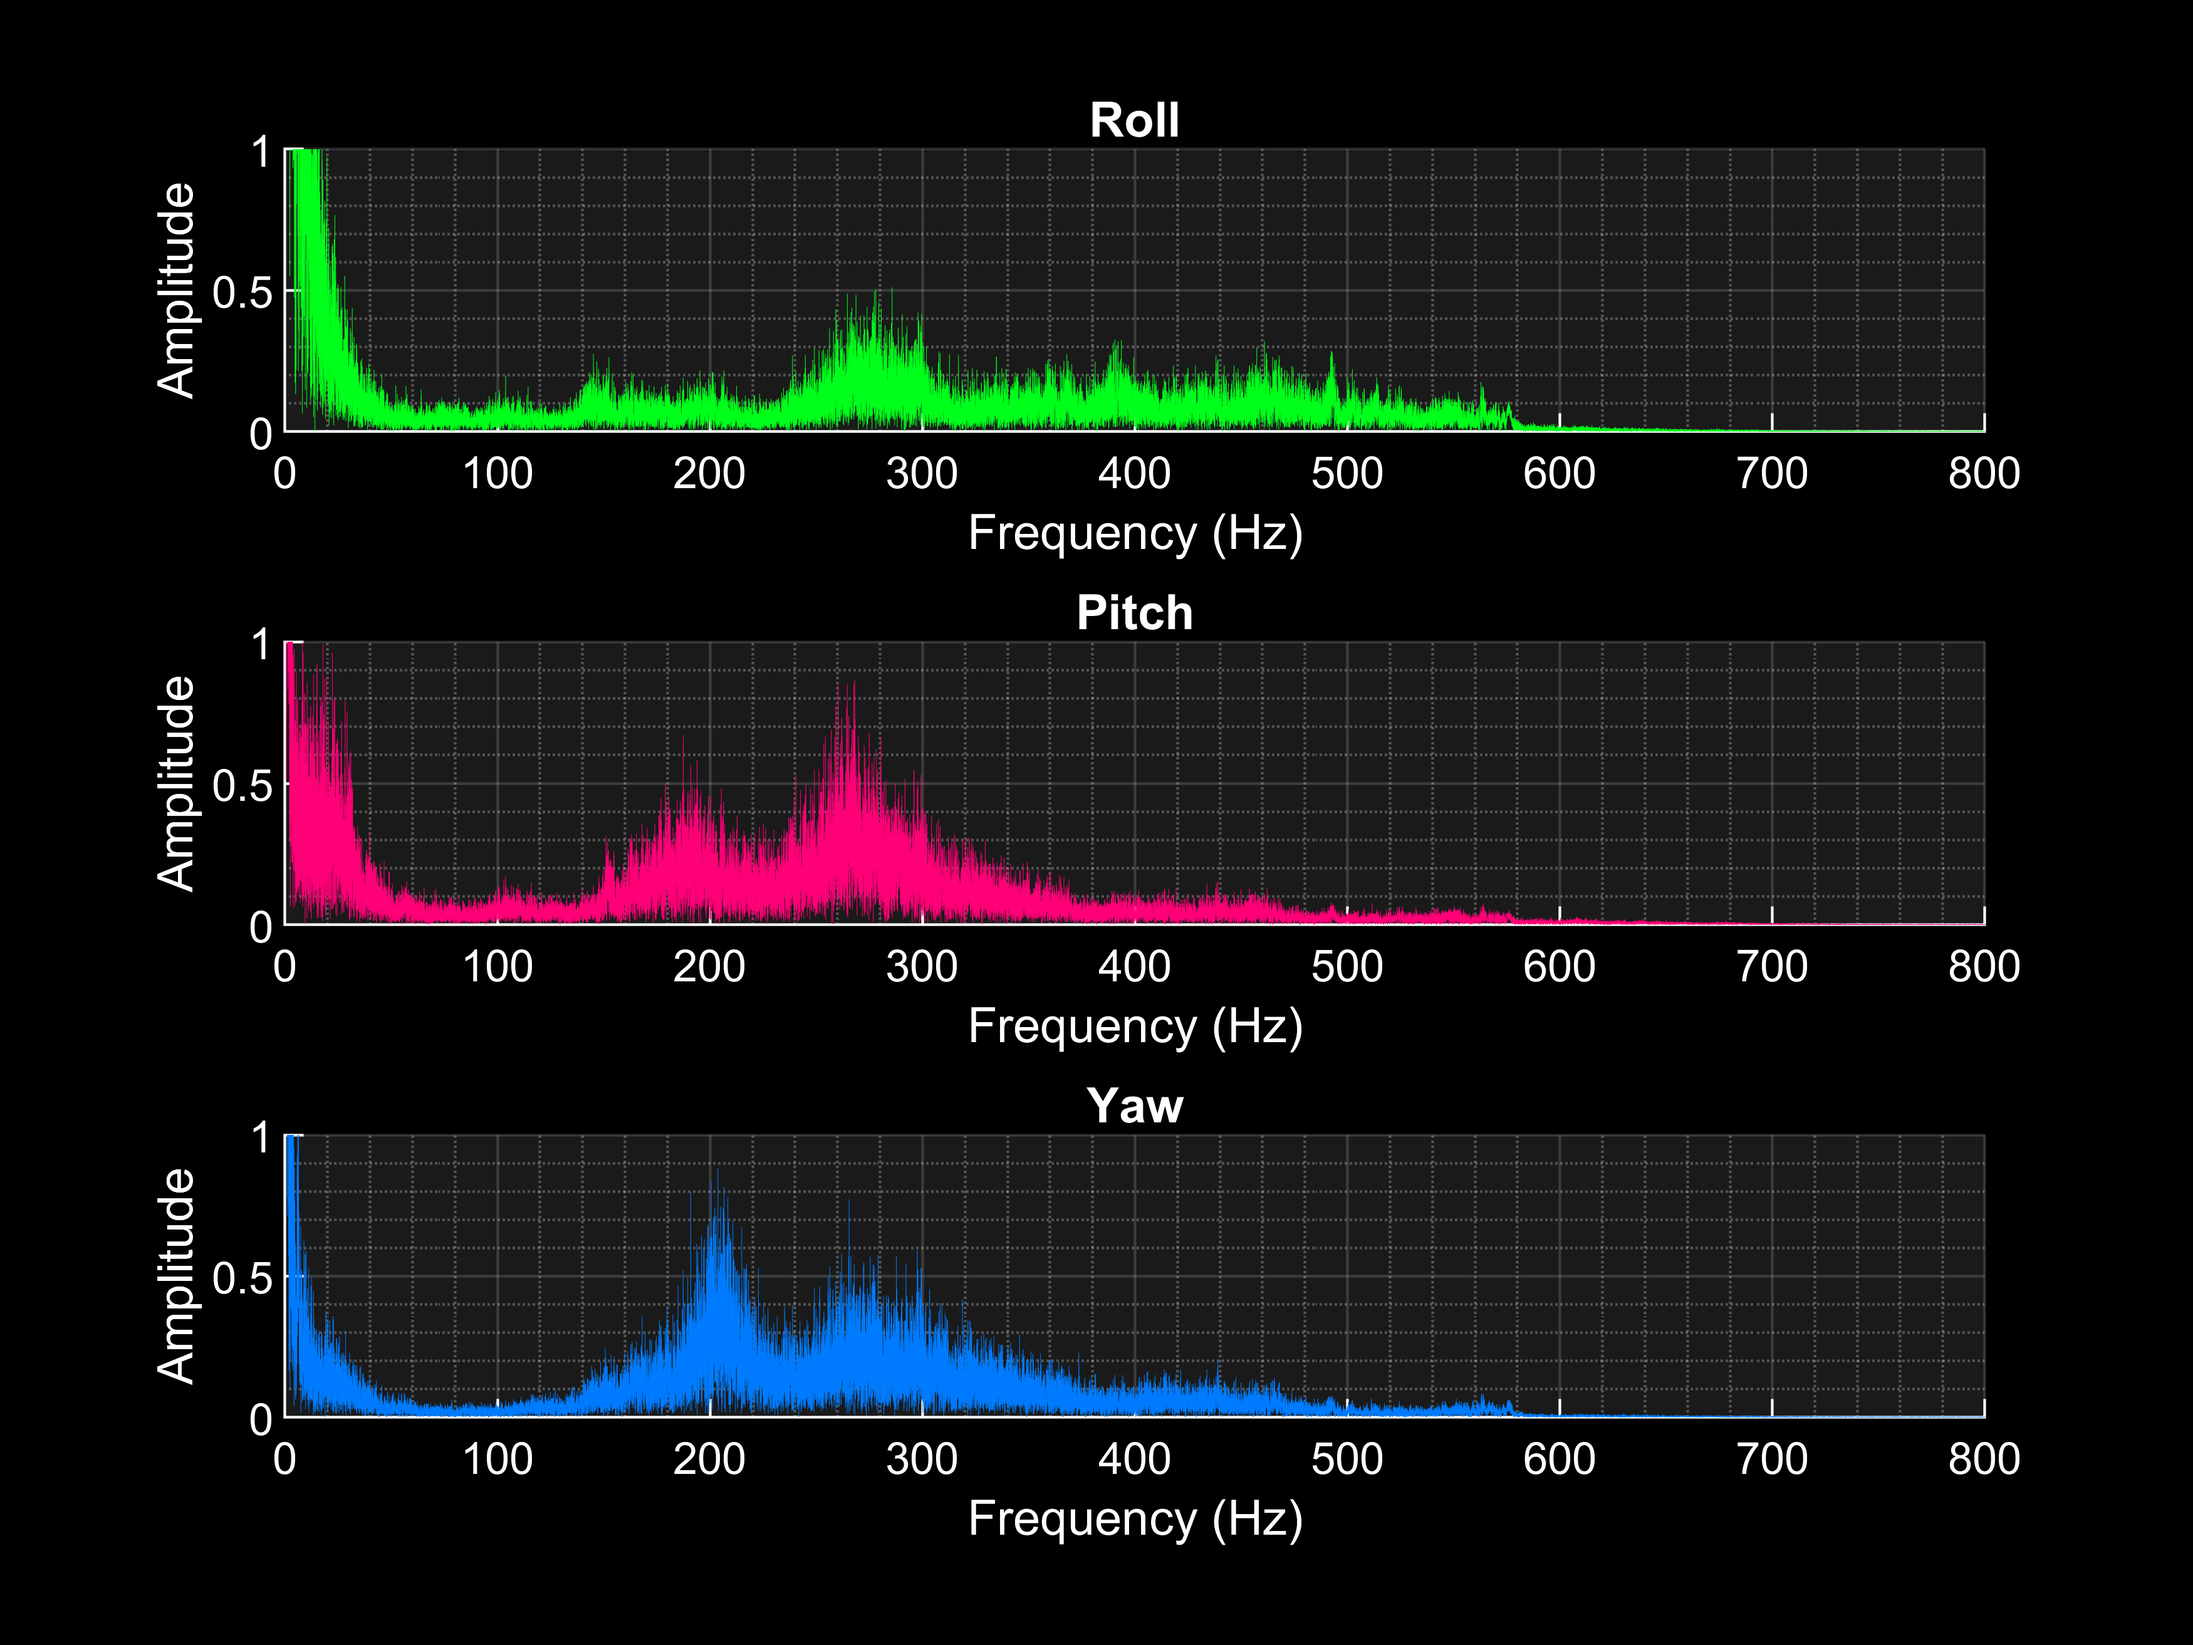
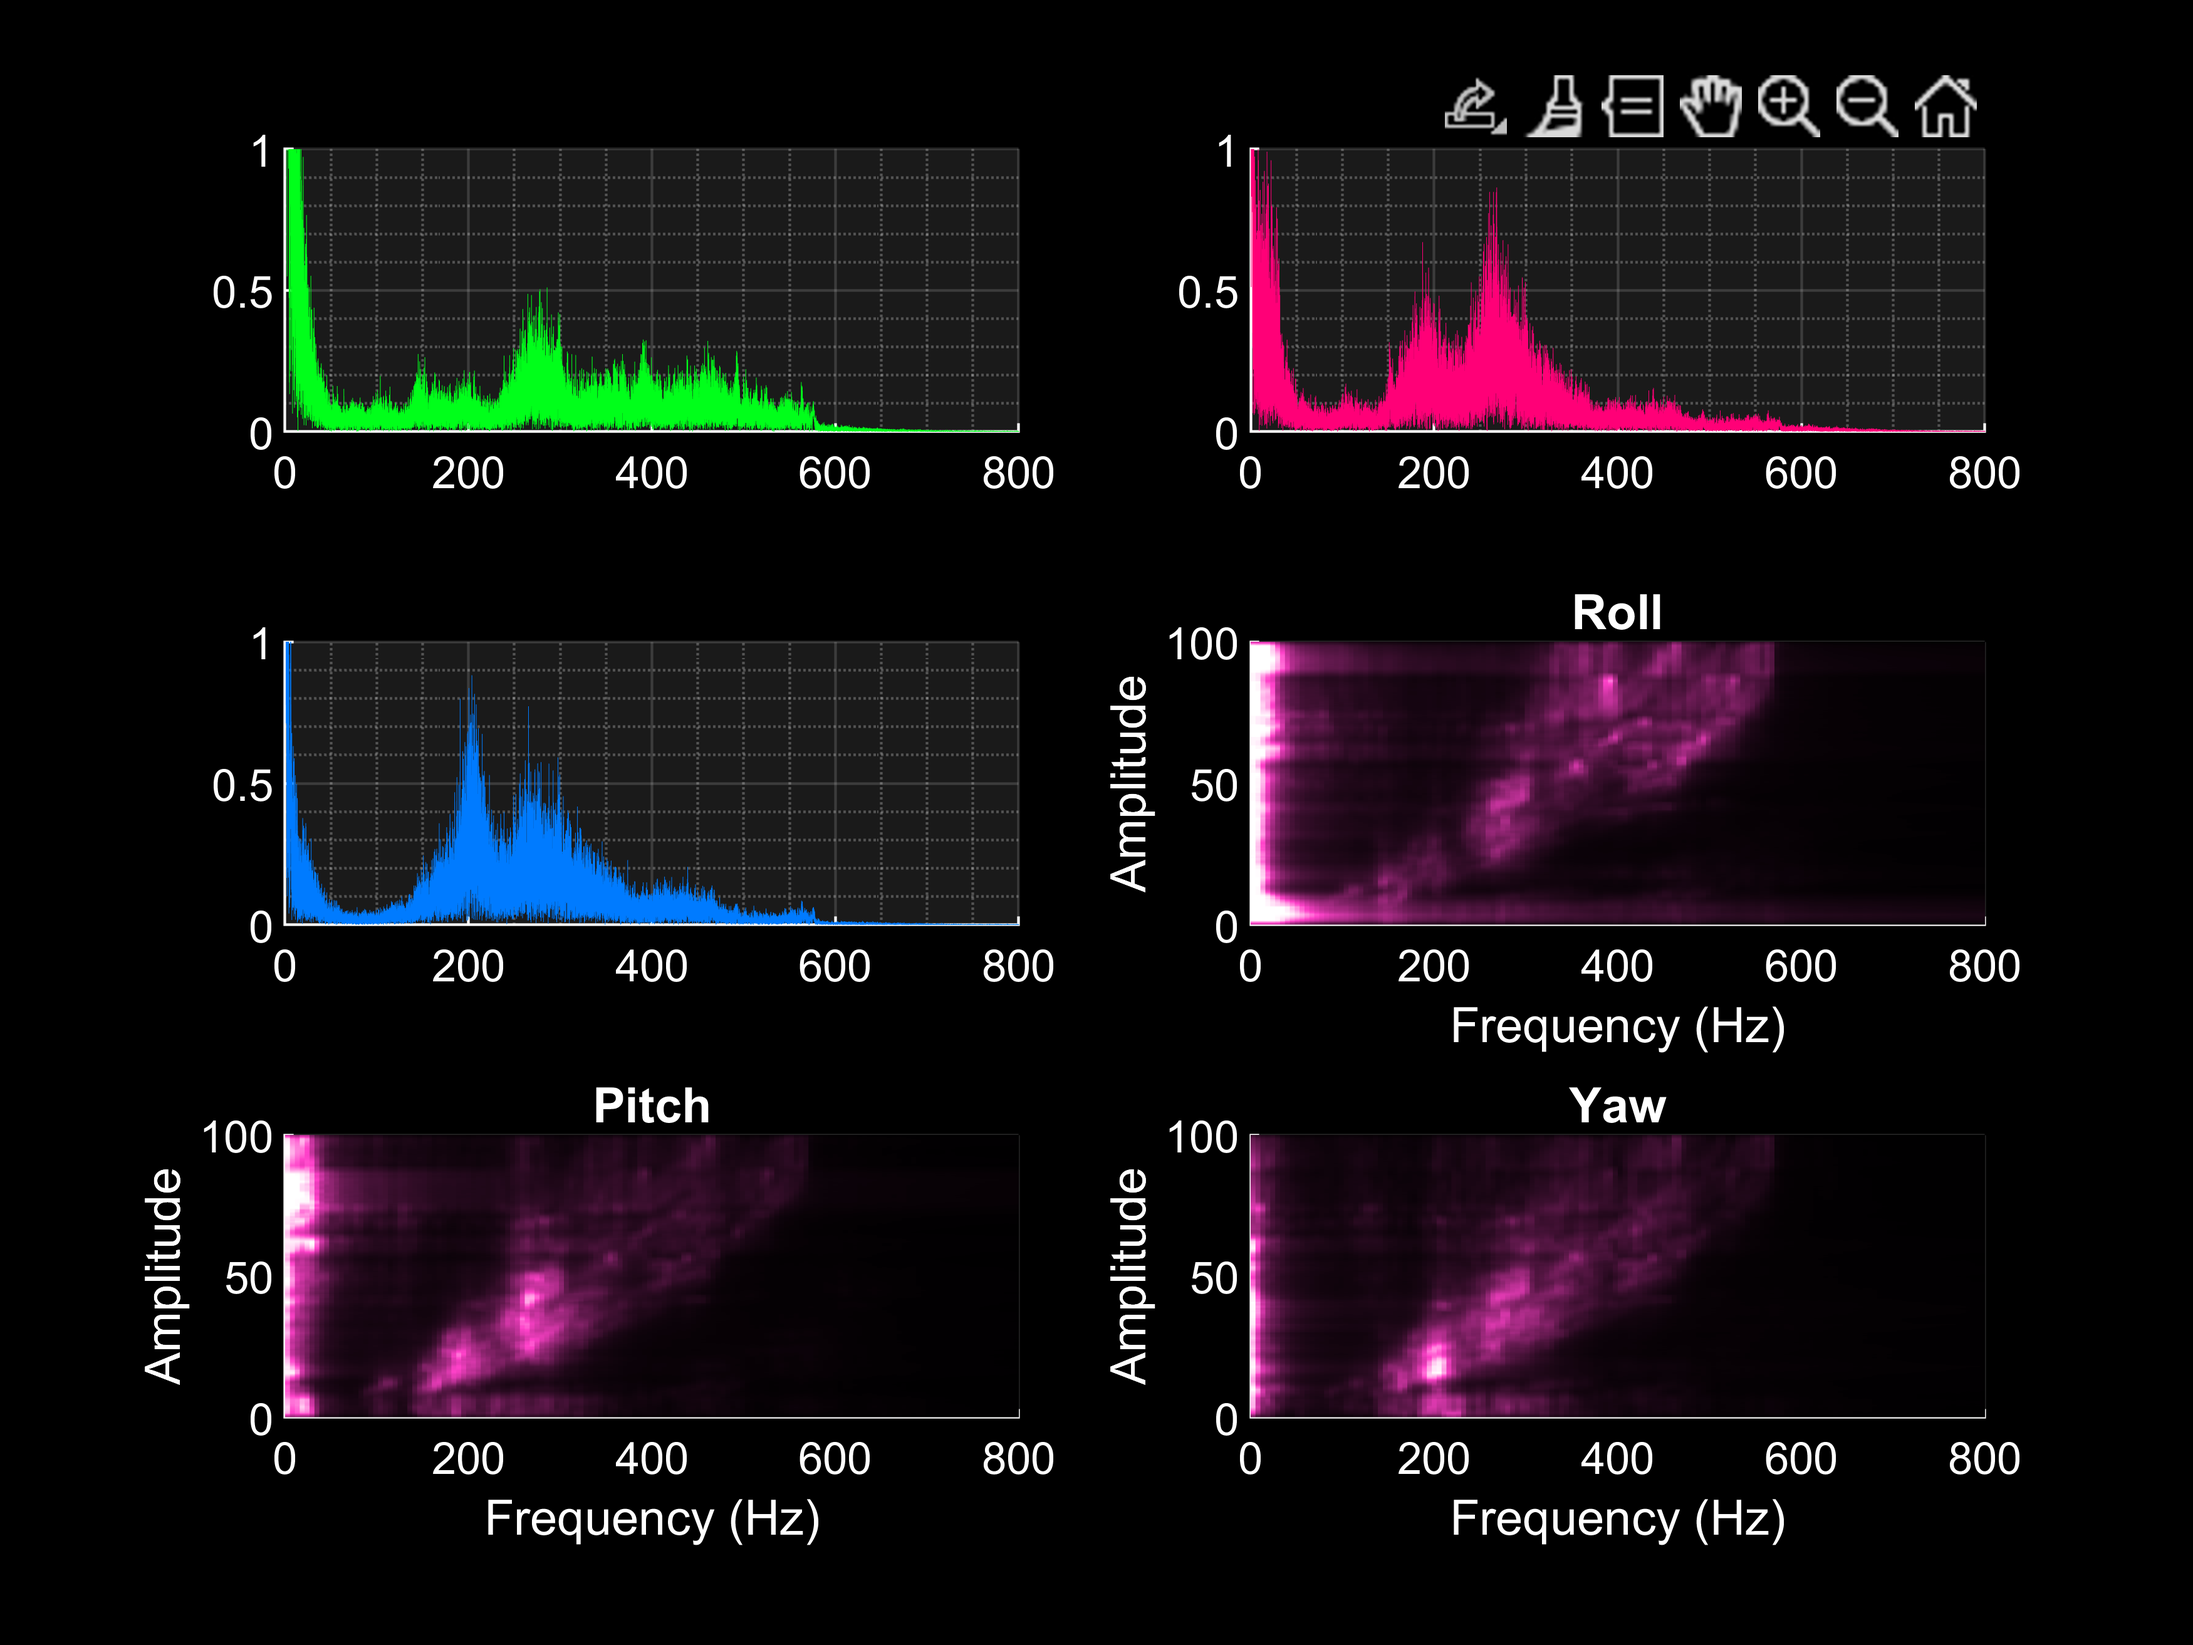
3x2 graph

diff --git a/frequ_responce_plot.m b/frequ_responce_plot.m
@@ -1,18 +1,17 @@
 
-function freque_responce_plot()
+function frequ_responce_plot(data, f)
 
 
-
-load("blue.mat")
+load("blue.mat");
 colormap(blue_map)
 
-surf(f, ([1000:2000]-999)./10, clean_data', "EdgeColor", "none", 'FaceAlpha', 1)
+surf(f, ([1000:2000]-999)./10, data', "EdgeColor", "none", 'FaceAlpha', 1)
 view(0,90)
 xlim([0,800])
 
 xlabel("Frequency (Hz)", "Color", [1 1 1])
 ylabel("Throttle (%)", "Color", [1 1 1])
-title("Frame Resonance Responce", "Color", [1 1 1])
+
 
 ylim([0,100])
 set(gca,'YColor',[1 1 1])
@@ -20,4 +19,5 @@ set(gca,'XColor',[1 1 1])
 set(gca,'ZColor',[1 1 1])
 grid on
 grid minor
+
 end

diff --git a/fft_simple.m b/fft_simple.m
@@ -1,0 +1,22 @@
+function [spectrum, f] = fft_simple(time, gyro_data, track)
+
+%DEFINE FFT BOILERPLATE
+Fs = 3200;                    % Sampling frequency                    
+T = 1/Fs;                     % Sampling period       
+L = length(time);             % Length of signal
+t = (0:L-1)*T;                % Time vector
+
+
+
+    %PERFORM FFT FOR THE THREE GYRO TRACKS
+    X = gyro_data(:, track);
+    Y = fft(X);
+    P2 = abs(Y/L);
+    P1 = P2(1:L/2+1);
+    P1(2:end-1) = 2*P1(2:end-1);
+    f = Fs*(0:(L/2))/L;
+
+    spectrum = P1;
+
+
+end

diff --git a/frequ_responce.m b/frequ_responce.m
@@ -1,5 +1,5 @@
 
-function [spectrum] = frequ_responce(time, gyro_data, thottle)
+function [spectrum, f] = frequ_responce(time, gyro_data, track, throttle)
 %FFT FREQUENCY RESPONCE
 
 %DEFINE SUB-SAMPLE SIZE
@@ -22,7 +22,7 @@ clean_data = zeros(sub_sample_size / 2 + 1,1000);
 for i = 1:total_samples-sub_sample_size
     
     %PERFORM FFT ON EACH SUB-SAMPLE
-    X = gryo_data(i:i+sub_sample_size,2);
+    X = gyro_data(i:i+sub_sample_size,track);
     Y = fft(X);
     P2 = abs(Y/L);
     P1 = P2(1:L/2+1);

diff --git a/fft_simple_plot.m b/fft_simple_plot.m
@@ -1,0 +1,11 @@
+function fft_simple_plot(P1, f, p_color)
+
+    plot(f,P1, "color", p_color, "LineWidth", 0.01) 
+    set(gca,'Color', [0.1 0.1 0.1])
+    set(gca,'XColor',[1 1 1])
+    set(gca,'YColor',[1 1 1])
+    ylim([0,1])
+    xlim([0,800])
+    grid on 
+    grid minor
+end
